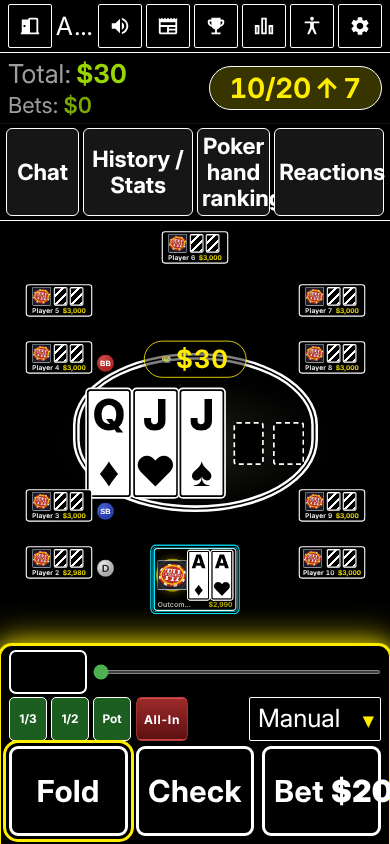
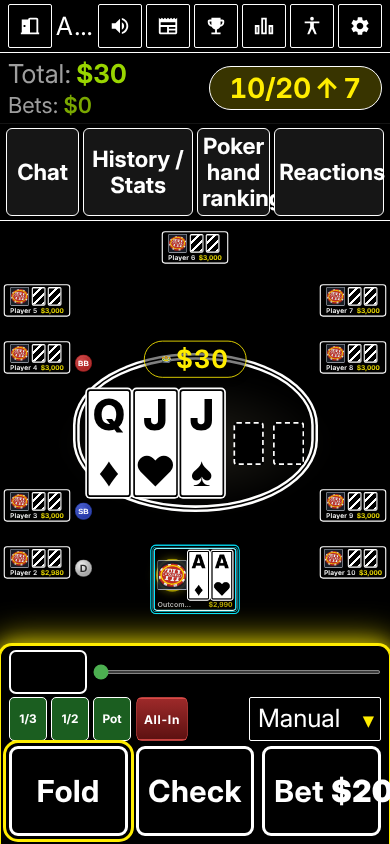
Extra large on a phone: side seats hug the wall so community cards no longer cover them (2.1.10-web.136)
The portrait seat layout now receives the Interface size. Above standard
size, the side columns sit 4 px from the edge instead of stopping at the
QML 15%/85% minimum (touch rows and fixed fractions alike), leaving the
doubled community cards the width between them. Fixes the last
test-accessibility-browser failure (41/41); screenshot 25 regenerated.

diff --git a/public/pokerth.js b/public/pokerth.js
@@ -12260,7 +12260,7 @@ window.App = App;
   }, { passive:false });
 })();
 
-window.BUILD_VERSION='2.1.10-web.135'; try{ var b=document.getElementById('cf-build'); if(b) b.textContent='\u00b7 build '+window.BUILD_VERSION; }catch(e){} })();
+window.BUILD_VERSION='2.1.10-web.136'; try{ var b=document.getElementById('cf-build'); if(b) b.textContent='\u00b7 build '+window.BUILD_VERSION; }catch(e){} })();
 
 /* theme-color du navigateur : suit le thème actif ou la palette High contrast
    (Android, Safari, iOS standalone récent). Lit --theme-color et met

diff --git a/public/sw.js b/public/sw.js
@@ -23,7 +23,7 @@
  *                 Cross-origin requests and WS upgrades are left untouched.
  *                 (Fonts are now self-hosted and handled by SWR above.)
  */
-const CACHE_VERSION = 'pokerth-v2.1.10-web.135';
+const CACHE_VERSION = 'pokerth-v2.1.10-web.136';
 // Build id the page puts on the card back URL (deck.mjs _deckBack →
 // flipside.<ext>?v=<BUILD_VERSION>): CACHE_VERSION without its prefix.
 const BUILD_ID = CACHE_VERSION.replace(/^pokerth-v/, '');

diff --git a/CHANGELOG.md b/CHANGELOG.md
@@ -641,6 +641,11 @@ highlights below.
   `test-lobby-typechat` (`web.32`).
 
 ### Fixed
+- **Extra large on a phone: community cards over the side seats** (`web.136`) — in portrait the seat layout
+  now receives the Interface size too, and above standard size the side columns hug the 4 px wall instead of
+  stopping at the QML 15 %/85 % minimum (both the touch rows and the fixed fractions), so the doubled cards keep
+  the width between them (10 seats at 390×844). Last failure of `test-accessibility-browser` (41/41);
+  `docs/screenshots/25` regenerated.
 - **Failing browser tests: three player bugs behind them** (`web.135`) — the desktop action bar
   (`data-abar-desk`, `#s-game#s-game` rules) fixed Fold / Call / Raise at 15 px and beat the low-vision scaling:
   its row, buttons and labels now follow `--active-play-scale`, and changing the Interface size re-measures the room
